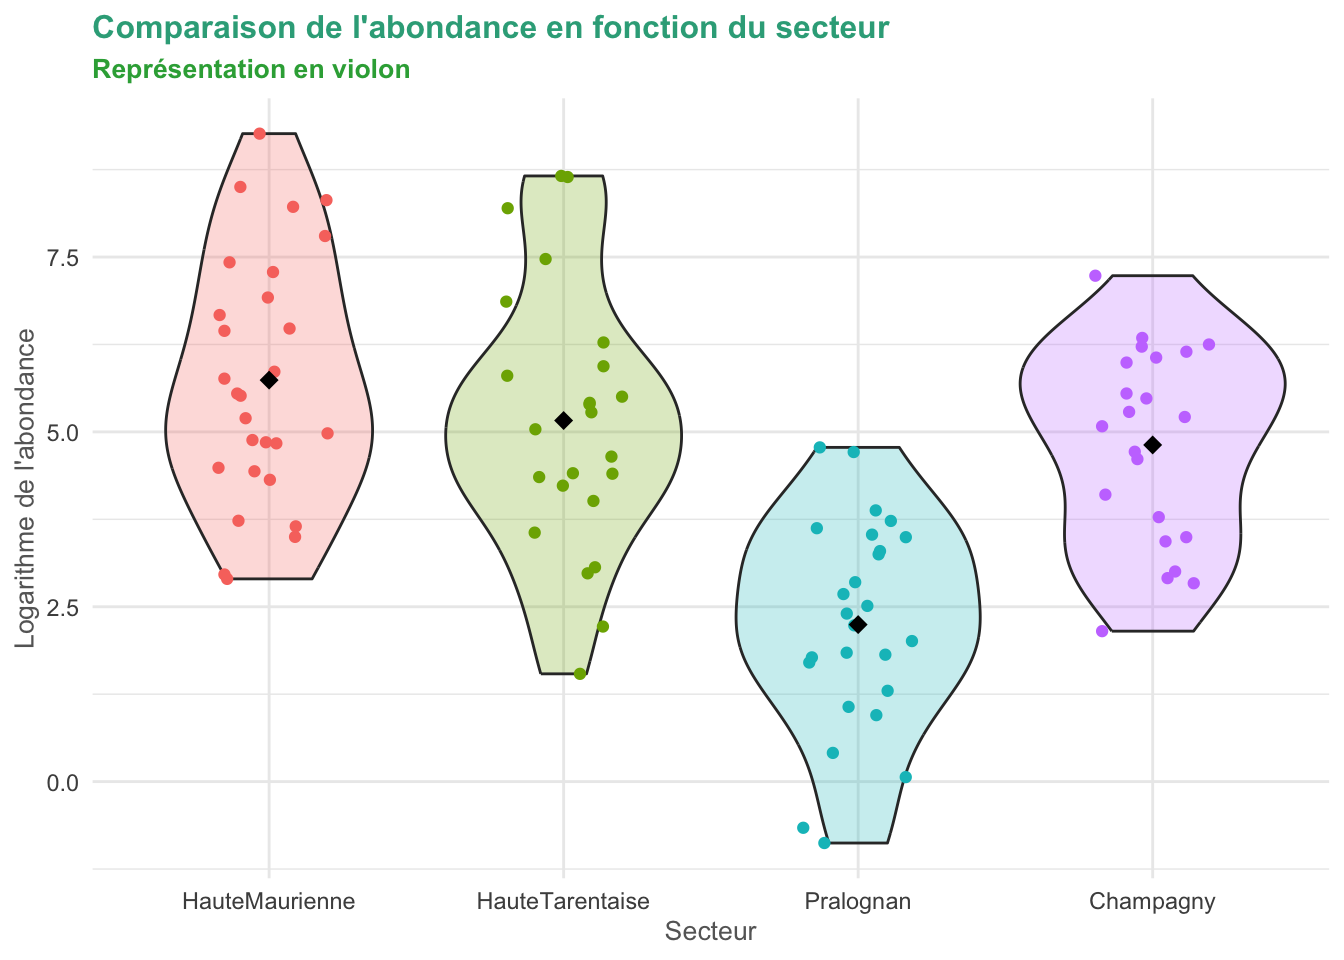
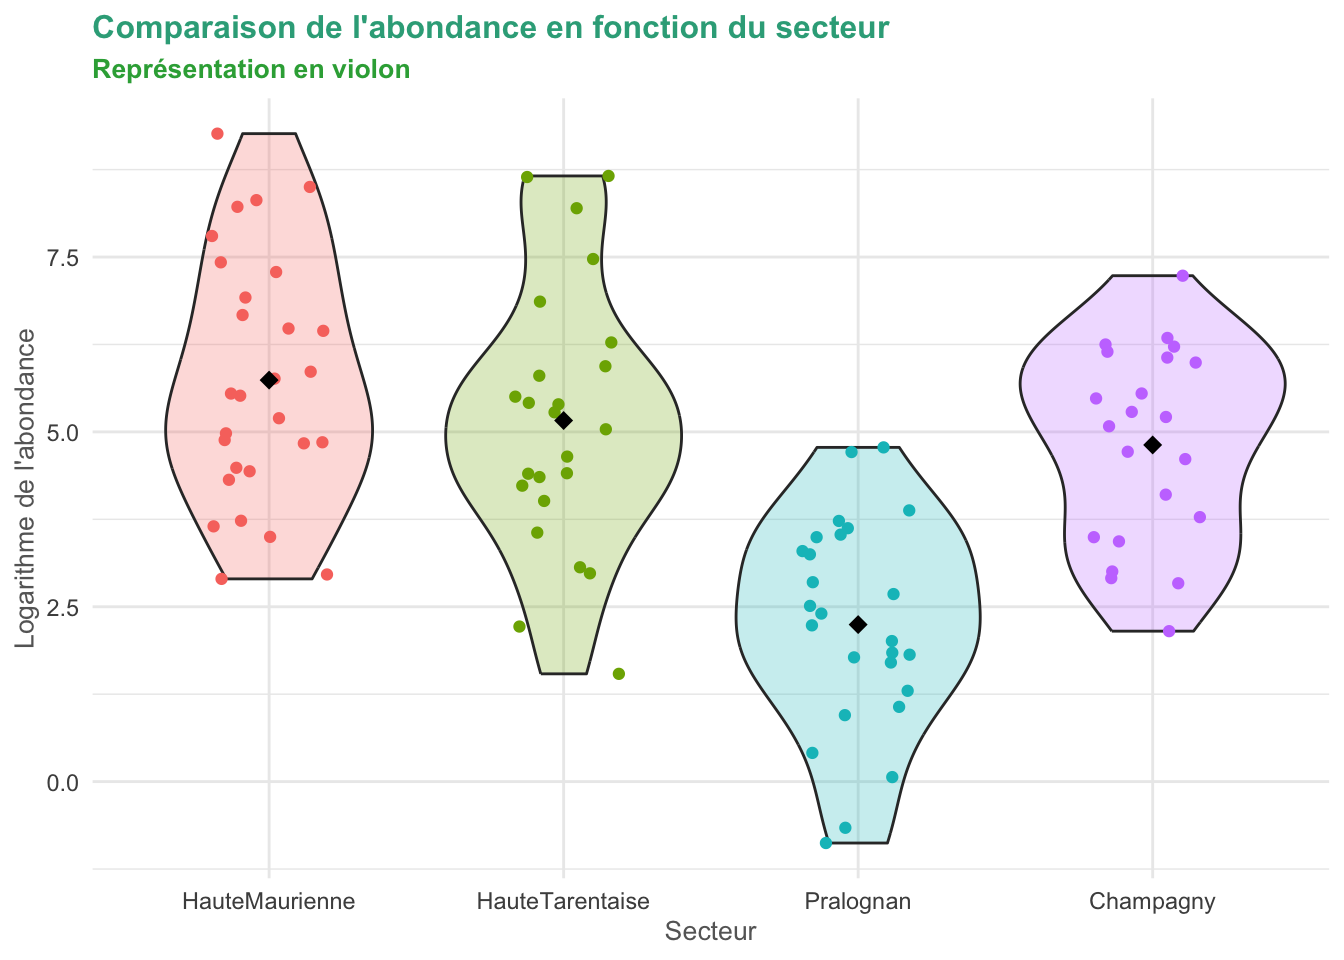
Cours analyse multivariee : TD 6 mise à jour

diff --git a/docs/teaching/intro-analyse-multivariee/index.html b/docs/teaching/intro-analyse-multivariee/index.html
@@ -276,6 +276,7 @@ document.addEventListener("DOMContentLoaded", function () {
 </div>
 <div class="callout-body-container">
 <p><em>Dernières mises à jour</em></p>
+<p><strong>27 octobre 2026</strong> – TD 6 - Modification mineure (ajout d’une librairie oublié et corrections de typos).</p>
 <p><strong>26 octobre 2026</strong> – Mise-à-jour massive : Chapitre 1 (<code>.Rmd</code>) ; Chapitre 2 (<code>.Rmd</code>, diaporama ; TD 4 : corrections typographiques du sujet <code>.Rmd</code>, modification du sujet du 1er exercice et ajout d’une correction ; TD 5 : corrections typographiques du sujet <code>.Rmd</code> et ajout d’une correction).</p>
 <p><strong>16 octobre 2026</strong> – TD 6 - Mise-à-jour.</p>
 <p><strong>14 octobre 2026</strong> – Ajout du TD 6. ; Chapitre 3 : correction de typos.</p>
